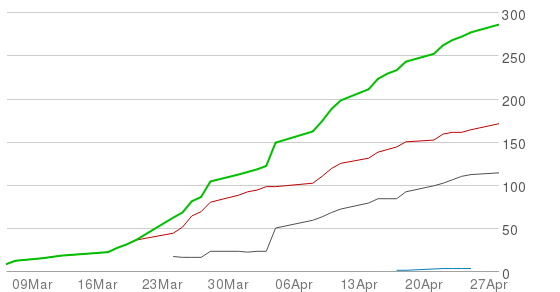
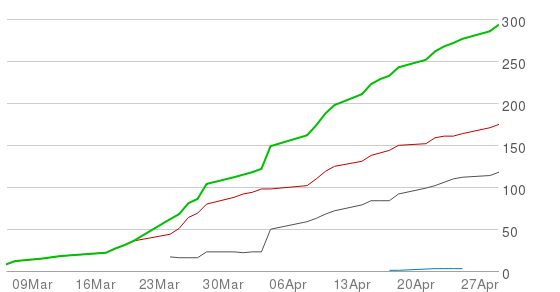
Updates from 2013-04-29

diff --git a/index.html b/index.html
@@ -14,7 +14,7 @@
 		<link rel="shortcut icon" href="./favicon.png">
 	</head>
 	<body>
-		<h1>Mumps cases in Franklin and Delaware counties</h1>
+		<h1>Mumps cases in Central Ohio</h1>
 		<div id="dygraph-container"><div id="dygraph"></div></div>
 		<div id="dygraph-labels"></div>
 		<p class="by">Hover for specific points. Data based on Columbus Health reports.</p>
@@ -104,7 +104,7 @@
 		</script>
 		
 		<p>The first case of mumps detected in Franklin County was January 7, with the first case at OSU detected February 10.</p>
-		<p>At Ohio State University, the virus has affected 120 students, 21 staff members, two family members, and 29 with strong ties to the university community, with most affected OSU-affiliated persons living in Columbus. Patients include 103 females and 69 males in the OSU community, from three to 58 years of age. The university-linked cases include residents in Columbus and Athens, Belmont, Clark, Delaware, Fairfield, Franklin, Hamilton, Licking, and Pickaway counties.<sup><a href="http://columbus.gov/Templates/Detail.aspx?id=69188">1</a></sup> Cases unrelated to Ohio State have been found in Ashland, Butler, Coshocton, Delaware, Lucas, Medina, Pickaway, Pike and Richland counties.<sup><a href="http://www.nbc4i.com/story/25322507/mumps-outbreak-grows-to-269-cases">2</a></sup></p>
+		<p>At Ohio State University, the virus has affected 120 students, 22 staff members, two family members, and 32 with strong ties to the university community, with most affected OSU-affiliated persons living in Columbus. Patients include 103 females and 69 males in the OSU community, from three to 58 years of age. The university-linked cases include residents in Columbus and Athens, Belmont, Clark, Delaware, Fairfield, Franklin, Hamilton, Licking, Madison, Pickaway and Ross counties.<sup><a href="http://columbus.gov/Templates/Detail.aspx?id=69188">1</a></sup> Cases unrelated to Ohio State have been found in Ashland, Butler, Coshocton, Delaware, Lucas, Medina, Pickaway, Pike and Richland counties.<sup><a href="http://www.nbc4i.com/story/25322507/mumps-outbreak-grows-to-269-cases">2</a></sup></p>
 		<p>Three to four cases have been reported at Columbus State Community College.<sup><a href="http://www.nbc4i.com/story/25300367/mumps-outbreak-grows-to-253-cases">3</a></sup></p>
 		<p>Cases have been reported in six<sup><a href="http://www.nbc4i.com/story/25322507/mumps-outbreak-grows-to-269-cases">4</a></sup> Olentangy Local Schools, leading school officials to tell students without the vaccine and with compromised immune systems to stay home. <sup><a href="http://www.dispatch.com/content/stories/local/2014/04/18/olentangy-students-without-mumps-vaccine-must-stay-home-for-25-days.html">5</a></sup></p>
 		<p>Local patients have had the following complications:</p>
